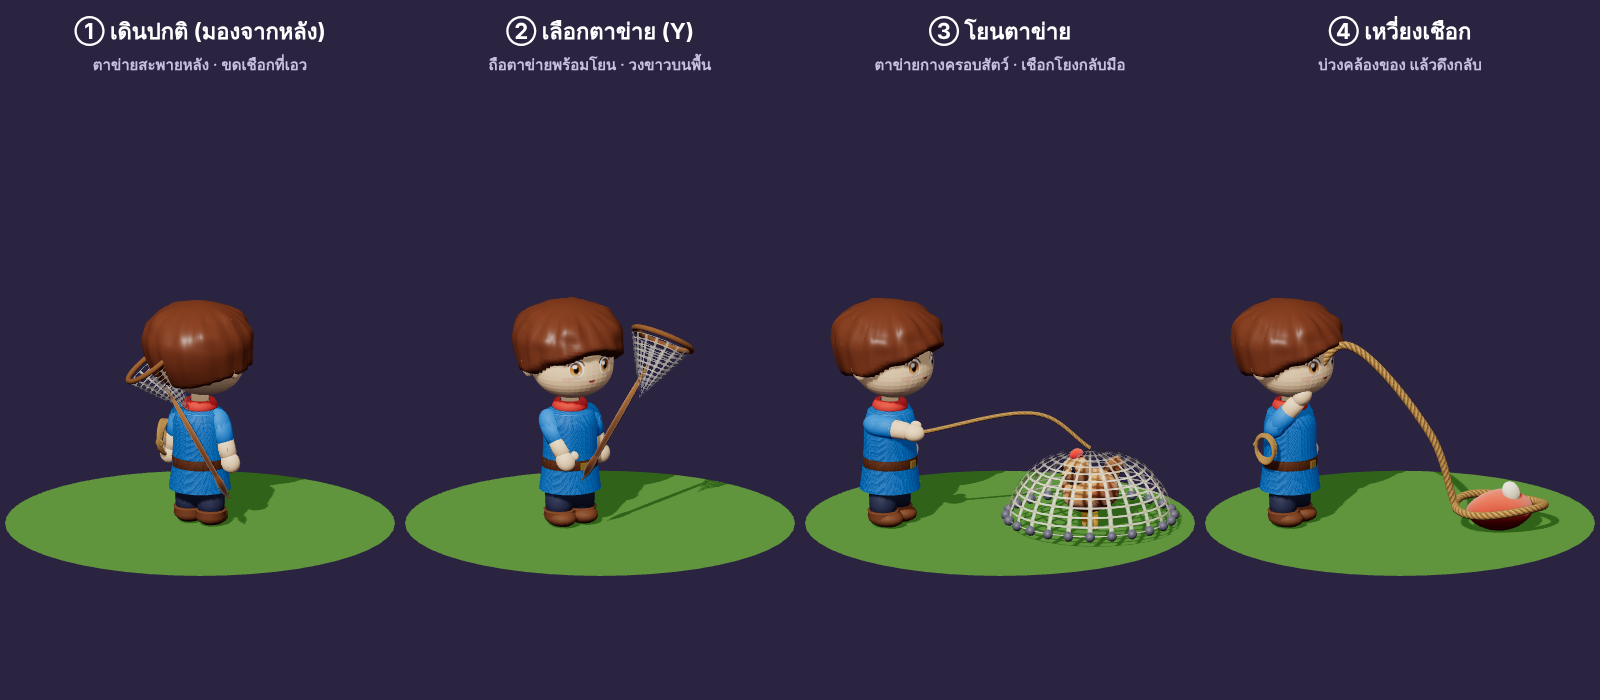
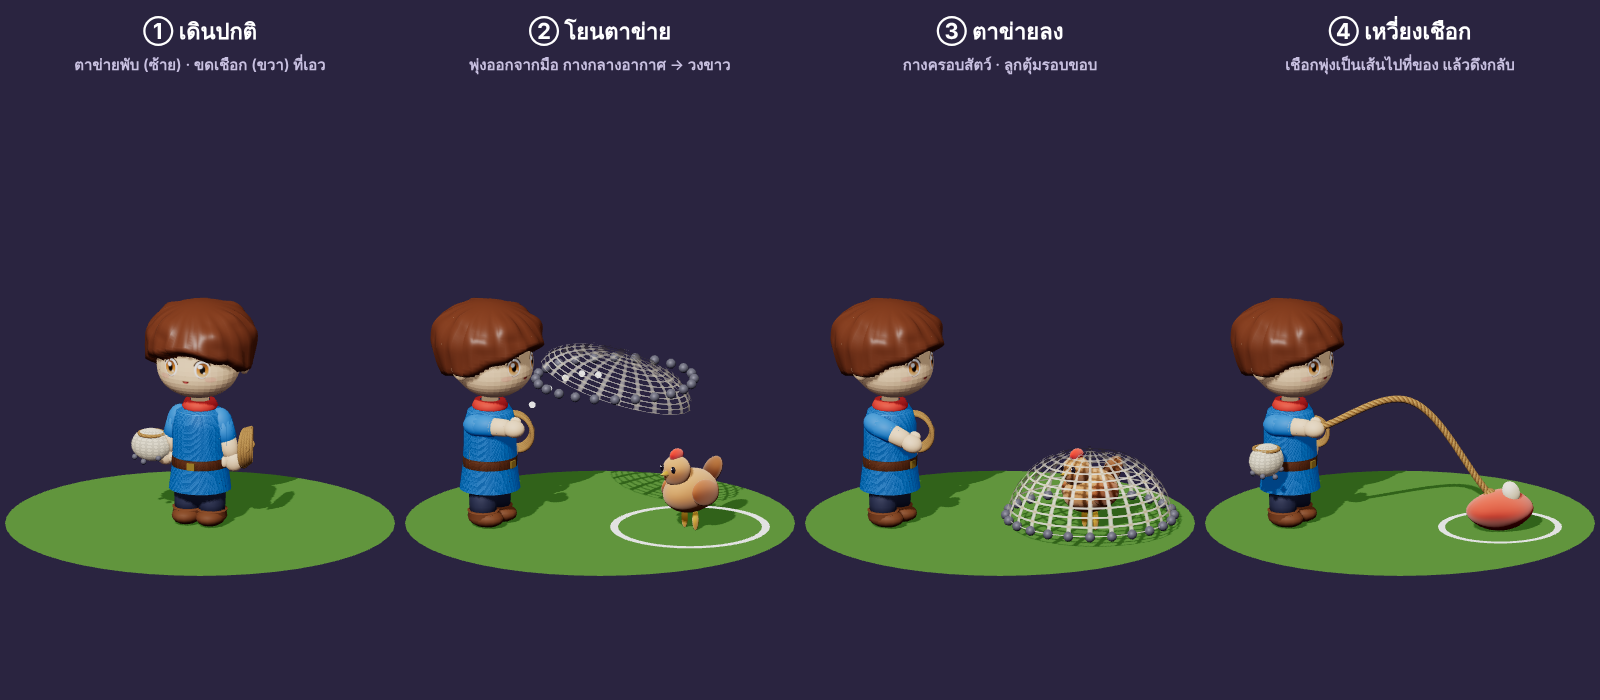
docs(newgame): mock: net + rope both at the hips · thrown out
Claude-Session: https://claude.ai/code/session_01GPWeNez232vT9ersFNk7wt

diff --git a/newgame/tools/art/ytools-char.html b/newgame/tools/art/ytools-char.html
@@ -28,24 +28,34 @@ const hero = (x, ry, arm) => { const g = new THREE.Group(); vinyl(g, look); cons
   let A = null, Hd = null; g.traverse(o => { if (o.userData.role === 'armR') A = o; if (o.name === 'handR') Hd = o }); if (arm && A) { A.rotation.x = arm[0]; A.rotation.z = arm[1] || 0 } g.traverse(o => o.isMesh && (o.castShadow = true));
   g.updateMatrixWorld(true); const hp = new THREE.Vector3(); if (Hd) Hd.getWorldPosition(hp); return { g, hp, s } };
 
-/* ① walking: the net on the back (diagonal) · the rope coil at the hip */
-{ ground(X[0]); const { g, s } = hero(X[0], Math.PI - .55); const n = netHeld(); n.scale.setScalar(.6 / s); n.position.set(-.1 / s, .95 / s, -.32 / s); n.rotation.set(-.1, 0, -.55); g.add(n);
-  const c = coil(); c.scale.setScalar(.27 / s); c.position.set(.38 / s, .78 / s, -.05 / s); c.rotation.set(0, Math.PI / 2 + .2, -.15); g.add(c) }
-/* ② the net raised, ready (Y chosen) */
-{ ground(X[1]); const { hp } = hero(X[1] - .3, .55, [-.5, .15]); const n = netHeld(); n.scale.setScalar(.62); n.position.copy(hp).add(new THREE.Vector3(.55, .6, .25)); n.rotation.set(.1, .5, -.6); S.add(n) }
-/* ③ the net thrown: spread over a chicken ahead · the hand-line back to the hand */
-{ ground(X[2]); const { hp } = hero(X[2] - 1.1, 1.0, [-1.5, .1]); const cx = X[2] + .9, ck = new THREE.Group(); ANIMALS.chicken(ck); ck.scale.setScalar(1.1); ck.position.set(cx, GY, .2); ck.rotation.y = -.8; S.add(ck);
-  const R0 = .85, net = new THREE.Mesh(new THREE.SphereGeometry(R0, 28, 10, 0, Math.PI * 2, 0, Math.PI / 2.2), netMat([6, 3])); net.scale.set(1, .95, 1); net.position.set(cx, GY + .03, .2); net.castShadow = true; S.add(net);
-  for (let i = 0; i < 24; i++) { const a = i / 24 * 6.283, rr = R0 * Math.sin(Math.PI / 2.2); const w = new THREE.Mesh(new THREE.SphereGeometry(.05, 10, 8), M('#7a7a88', { roughness: .4, metalness: .3 })); w.position.set(cx + Math.cos(a) * rr, GY + .03 + Math.cos(Math.PI / 2.2) * R0 * .95, .2 + Math.sin(a) * rr); S.add(w) }
-  S.add(tube([new THREE.Vector3(cx, GY + .03 + R0 * .95, .2), new THREE.Vector3(cx - .5, GY + 1.2, .25), hp], .02, 8)) }
-/* ④ the rope thrown: a lasso round a dropped bundle · the coil still at the hip */
-{ ground(X[3]); const { g, hp, s } = hero(X[3] - 1.1, 1.0, [-2.5, .2]); const c = coil(); c.scale.setScalar(.22 / s); c.position.set(-.38 / s, .78 / s, -.05 / s); c.rotation.set(0, Math.PI / 2 - .2, .15); g.add(c);
+/* a folded net hung at the hip: a soft bundle of cord · lead weights peeking out · tied with a cord */
+const netPack = () => { const g = new THREE.Group(); const b = new THREE.Mesh(new THREE.SphereGeometry(.5, 20, 14), M('#e8dcc0', { roughness: 1 })); b.scale.set(1, .8, .75); g.add(b); const o = new THREE.Mesh(new THREE.SphereGeometry(.53, 20, 14), netMat([5, 4])); o.scale.copy(b.scale); g.add(o);
+  for (let i = 0; i < 7; i++) { const a = i / 7 * 6.283, w = new THREE.Mesh(new THREE.SphereGeometry(.07, 10, 8), M('#7a7a88', { roughness: .4, metalness: .3 })); w.position.set(Math.cos(a) * .42, -.3 + Math.sin(i * 2.1) * .06, Math.sin(a) * .32); g.add(w) }
+  const t = new THREE.Mesh(new THREE.TorusGeometry(.3, .045, 8, 20), ropeMat(4)); t.rotation.x = Math.PI / 2; t.position.y = .28; g.add(t); g.traverse(o => o.isMesh && (o.castShadow = true)); return g };
+const atHips = (g, s, kc = 1) => { const n = netPack(); n.scale.setScalar(.42 / s); n.position.set(-.5 / s, .7 / s, .04 / s); g.add(n); const c = coil(); c.scale.setScalar(.3 * kc / s); c.position.set(.5 / s, .76 / s, -.02 / s); c.rotation.set(0, Math.PI / 2 + .2, -.15); g.add(c) };
+const castNet = (cx, cz, y, R0, open) => { const geo = new THREE.SphereGeometry(R0, 28, 10, 0, Math.PI * 2, 0, Math.PI / (open ? 2.2 : 3.2)); const net = new THREE.Mesh(geo, netMat([6, 3])); net.scale.set(1, open ? .95 : .55, 1); net.position.set(cx, y, cz); net.castShadow = true; S.add(net);
+  const th = Math.PI / (open ? 2.2 : 3.2); for (let i = 0; i < 24; i++) { const a = i / 24 * 6.283, rr = R0 * Math.sin(th); const w = new THREE.Mesh(new THREE.SphereGeometry(.05, 10, 8), M('#7a7a88', { roughness: .4, metalness: .3 })); w.position.set(cx + Math.cos(a) * rr, y + Math.cos(th) * R0 * net.scale.y, cz + Math.sin(a) * rr); S.add(w) } return net };
+const dots = (pts) => pts.forEach(p => { const sp = new THREE.Mesh(new THREE.SphereGeometry(.035, 6, 6), new THREE.MeshBasicMaterial({ color: '#ffffff' })); sp.position.copy(p); S.add(sp) });
+
+/* ① walking: the net bundle on the left hip · the rope coil on the right */
+{ ground(X[0]); const { g, s } = hero(X[0], -.35); atHips(g, s) }
+/* ② the net flies out: it leaves the hand and opens in the air on its way to the white circle */
+{ ground(X[1]); const { g, hp, s } = hero(X[1] - 1.1, 1.0, [-1.6, .1]); atHips(g, s); g.children.filter(c => c.children.length && c.scale.x < 1 && c.position.x < 0).forEach(c => c.visible = false);
+  const cx = X[1] + .9; const ck = new THREE.Group(); ANIMALS.chicken(ck); ck.scale.setScalar(1.1); ck.position.set(cx, GY, .2); ck.rotation.y = -.8; S.add(ck);
+  const ring = new THREE.Mesh(new THREE.RingGeometry(.72, .8, 40), new THREE.MeshBasicMaterial({ color: '#ffffff' })); ring.rotation.x = -Math.PI / 2; ring.position.set(cx, GY + .02, .2); S.add(ring);
+  const n = castNet(X[1] + .15, .2, GY + 1.45, .8, true); n.scale.y = .5; n.rotation.z = -.3;
+  dots([...Array(5)].map((_, i) => { const t = (i + 1) / 6; return new THREE.Vector3(hp.x + (X[1] + .15 - hp.x) * t, hp.y + (GY + 1.55 - hp.y) * t + Math.sin(t * Math.PI) * .25, .2) })) }
+/* ③ the net lands over the animal */
+{ ground(X[2]); const { g, s } = hero(X[2] - 1.1, 1.0, [-1.2, .1]); atHips(g, s); g.children.filter(c => c.children.length && c.scale.x < 1 && c.position.x < 0).forEach(c => c.visible = false);
+  const cx = X[2] + .9, ck = new THREE.Group(); ANIMALS.chicken(ck); ck.scale.setScalar(1.1); ck.position.set(cx, GY, .2); ck.rotation.y = -.8; S.add(ck); castNet(cx, .2, GY + .03, .85, true) }
+/* ④ the rope shoots out as a line to the dropped thing · the coil shrinks at the hip */
+{ ground(X[3]); const { g, hp, s } = hero(X[3] - 1.1, 1.0, [-1.6, .1]); atHips(g, s, .75);
   const bx = X[3] + 1.0, bd = new THREE.Group(); part(bd, '#a8301e', '#e8604a', [0, .18, 0], [.32, .18, .26], [0, .4, 0], { A: .08 }); part(bd, '#e8d8b0', '#fff6e0', [.1, .36, .05], [.08, .1, .08], [0, 0, .4], { A: .05 }); bd.scale.setScalar(1.1); bd.position.set(bx, GY, .2); S.add(bd);
-  S.add(tube([...Array(16)].map((_, i) => { const a = i / 16 * 6.283; return [bx + Math.cos(a) * .45, GY + .25 + Math.sin(a * 2) * .03, .2 + Math.sin(a) * .38] }), .04, 12, true));
-  S.add(tube([new THREE.Vector3(bx - .45, GY + .25, .2), new THREE.Vector3(bx - .7, GY + 1.0, .25), new THREE.Vector3(hp.x + .4, hp.y + .5, .2), hp], .04, 12)) }
+  const ring = new THREE.Mesh(new THREE.RingGeometry(.55, .62, 40), new THREE.MeshBasicMaterial({ color: '#ffffff' })); ring.rotation.x = -Math.PI / 2; ring.position.set(bx, GY + .02, .2); S.add(ring);
+  S.add(tube([hp, new THREE.Vector3((hp.x + bx) / 2, hp.y + .25, .2), new THREE.Vector3(bx - .1, GY + .35, .2)], .035, 12)); const kn = new THREE.Mesh(new THREE.SphereGeometry(.07, 10, 8), ropeMat(2)); kn.position.set(bx - .1, GY + .35, .2); S.add(kn) }
 
 r.render(S, cam);
-const L = [['① เดินปกติ (มองจากหลัง)', 'ตาข่ายสะพายหลัง · ขดเชือกที่เอว'], ['② เลือกตาข่าย (Y)', 'ถือตาข่ายพร้อมโยน · วงขาวบนพื้น'], ['③ โยนตาข่าย', 'ตาข่ายกางครอบสัตว์ · เชือกโยงกลับมือ'], ['④ เหวี่ยงเชือก', 'บ่วงคล้องของ แล้วดึงกลับ']];
+const L = [['① เดินปกติ', 'ตาข่ายพับ (ซ้าย) · ขดเชือก (ขวา) ที่เอว'], ['② โยนตาข่าย', 'พุ่งออกจากมือ กางกลางอากาศ → วงขาว'], ['③ ตาข่ายลง', 'กางครอบสัตว์ · ลูกตุ้มรอบขอบ'], ['④ เหวี่ยงเชือก', 'เชือกพุ่งเป็นเส้นไปที่ของ แล้วดึงกลับ']];
 L.forEach(([t, s], i) => { const d = document.createElement('div'); d.className = 'lb'; d.style.left = (i * 400) + 'px'; d.innerHTML = t + '<small>' + s + '</small>'; document.getElementById('w').appendChild(d) });
 window.done = 1;
 </script></body></html>
